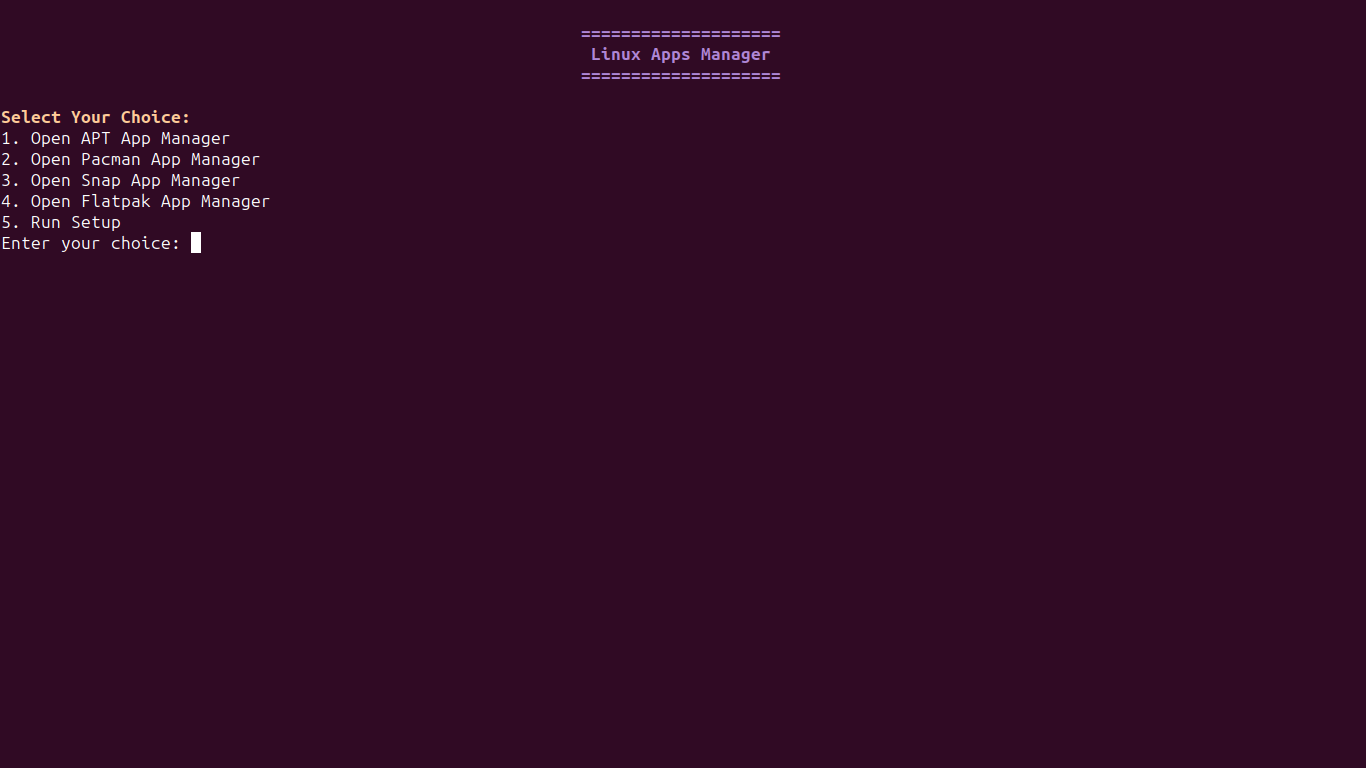
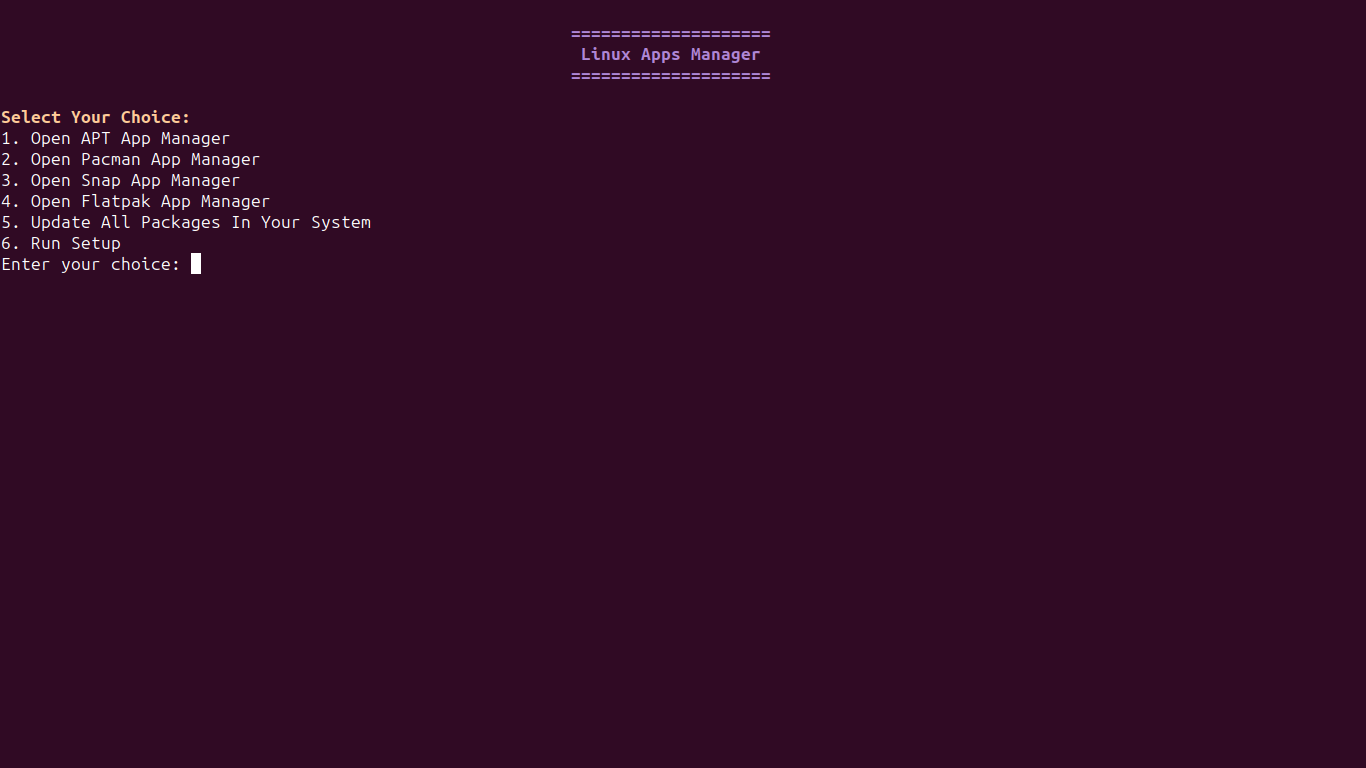
add option of one click update

Changed region(s): [[0.0, 0.2812, 0.2767, 0.375], [0.4305, 0.0625, 0.5534, 0.0938]]

diff --git a/README.md b/README.md
@@ -63,7 +63,7 @@ chmod +x manager.sh && ./manager.sh
 chmod +x manager.sh && ./manager.sh
 ```
 
-3. Choose the option 5 to run setup.
+3. Choose the option 6 to run setup.
 4. Choose the option 1 to install Linux Apps Manager in your system.
 5. To run Linux Apps Manager, type `lam` in your terminal.
 6. Choose the app manager you want to use from the main menu.
@@ -77,7 +77,7 @@ chmod +x manager.sh && ./manager.sh
 To uninstall Linux Apps Manager from your system, follow these steps:
 
 1. Run `lam` in your terminal.
-2. Choose the option 5 to run setup.
+2. Choose the option 6 to run setup.
 3. Choose the option 2 to uninstall Linux Apps Manager from your system.
 
 ## License
